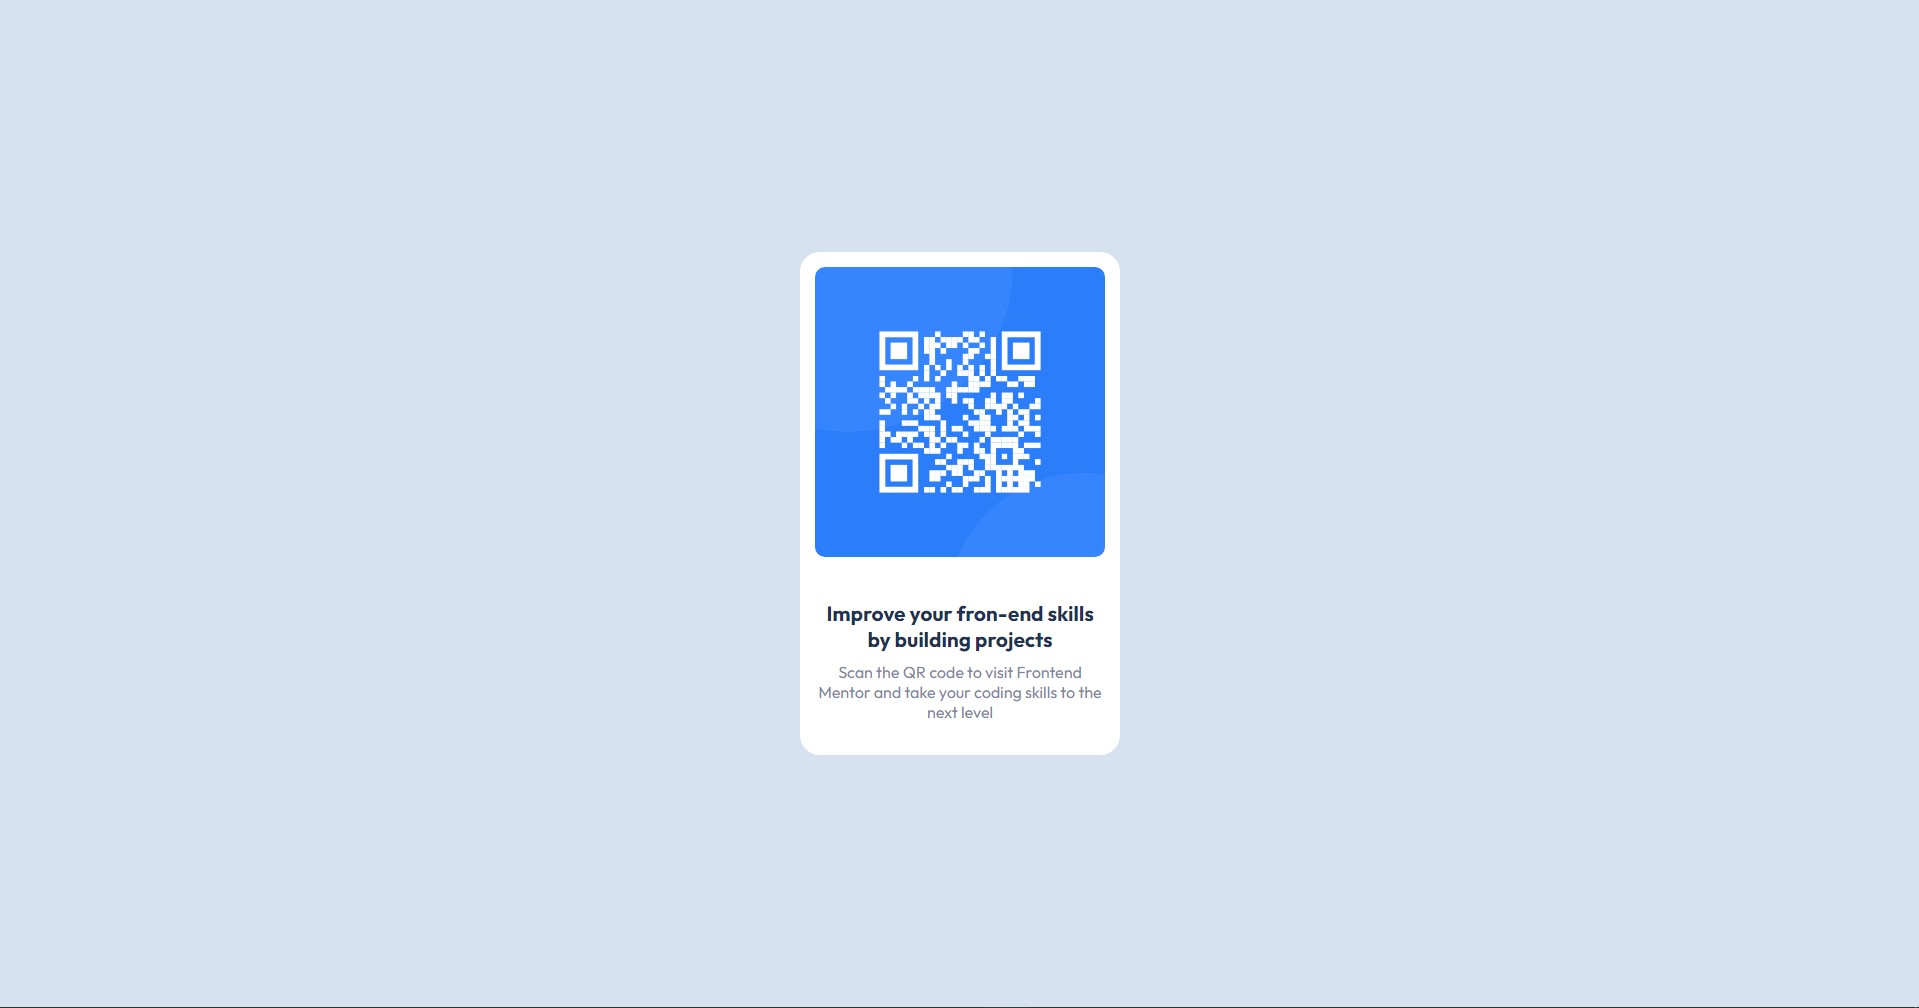
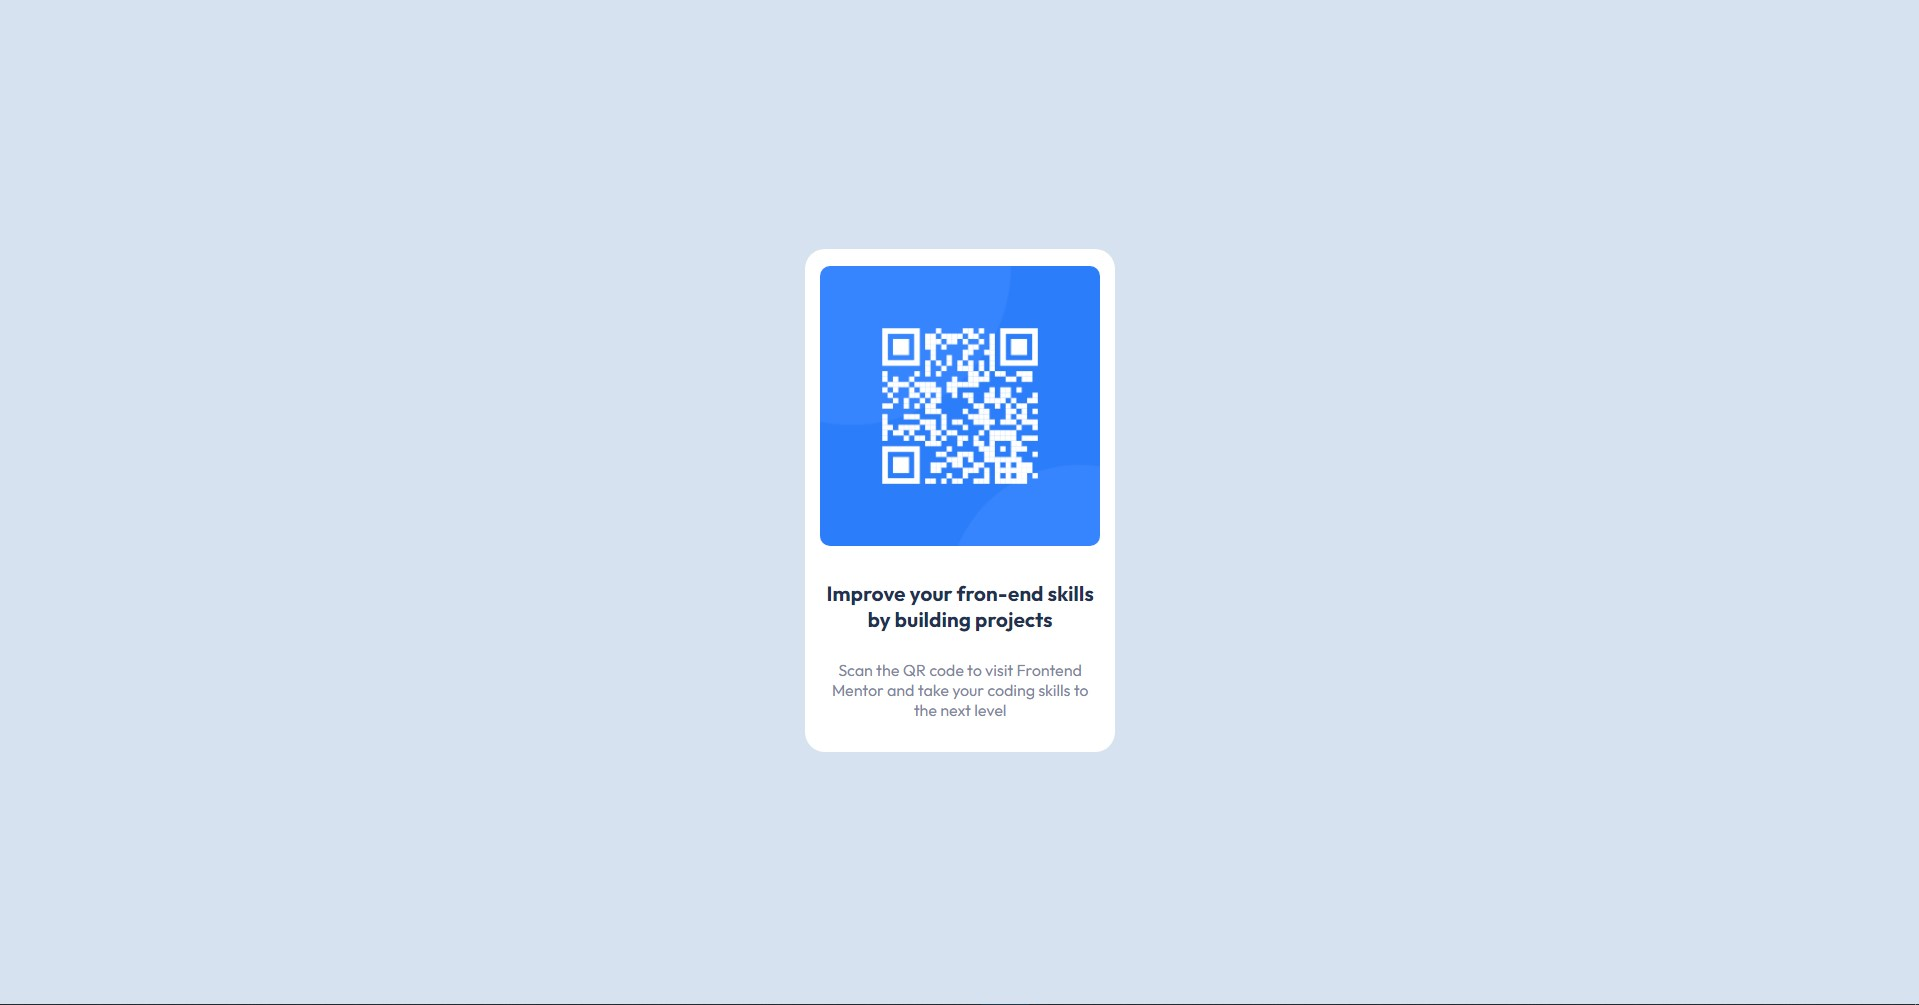
CHTML structure correction

Changed region(s): [[0.3997, 0.2468, 0.5842, 0.6478], [0.3997, 0.6786, 0.5842, 0.7095]]

diff --git a/style.css b/style.css
@@ -29,10 +29,12 @@ body {
   display: grid;
   margin: auto;
   grid-template-columns: 1fr;
-  grid-template-rows: 1fr 1fr 1fr;
+  grid-template-rows: 1fr 1fr 1fr 1fr 1fr;
   grid-template-areas: 
     "image"
     "image"
+    "image"
+    "title"
     "text";
   background-color: var(--White);
   border-radius: 20px;
@@ -40,27 +42,25 @@ body {
 
 .card-qr_image {
   grid-area: image;
-}
-
-.card-qr_image > img{
   width: 100%;
   border-radius: 10px;
+  margin: auto;
 }
 
-.card-description {
-  grid-area: text;
+.card-title {
+  grid-area: title;
   margin: auto;
   text-align: center;
-}
-
-.card-description-title {
   font-family: 'Outfit', sans-serif;
   font-size: 1.3em;
   color: var(--Dark-blue);
   margin-bottom: 10px;
 }
 
-.card-description-description {
+.card-description {
+  grid-area: text;
+  margin: auto;
+  text-align: center;
   font-family: 'Outfit', sans-serif;
   font-size: 1em;
   color: var(--Grayish-blue);

diff --git a/index.html b/index.html
@@ -15,13 +15,9 @@
 <body>
   <div id="container">
     <div class="card">
-      <figure class="card-qr_image">
-        <img src="./images/image-qr-code.png" alt="qr_code">
-      </figure>
-      <div class="card-description">
-        <h2 class="card-description-title">Improve your fron-end skills by building projects</h2>
-        <p class="card-description-description">Scan the QR code to visit Frontend Mentor and take your coding skills to the next level</p>
-      </div>
+      <img class="card-qr_image" src="./images/image-qr-code.png" alt="qr_code">
+      <h1 class="card-title">Improve your fron-end skills by building projects</h1>
+      <p class="card-description">Scan the QR code to visit Frontend Mentor and take your coding skills to the next level</p>
     </div>
   </div>
 </body>
